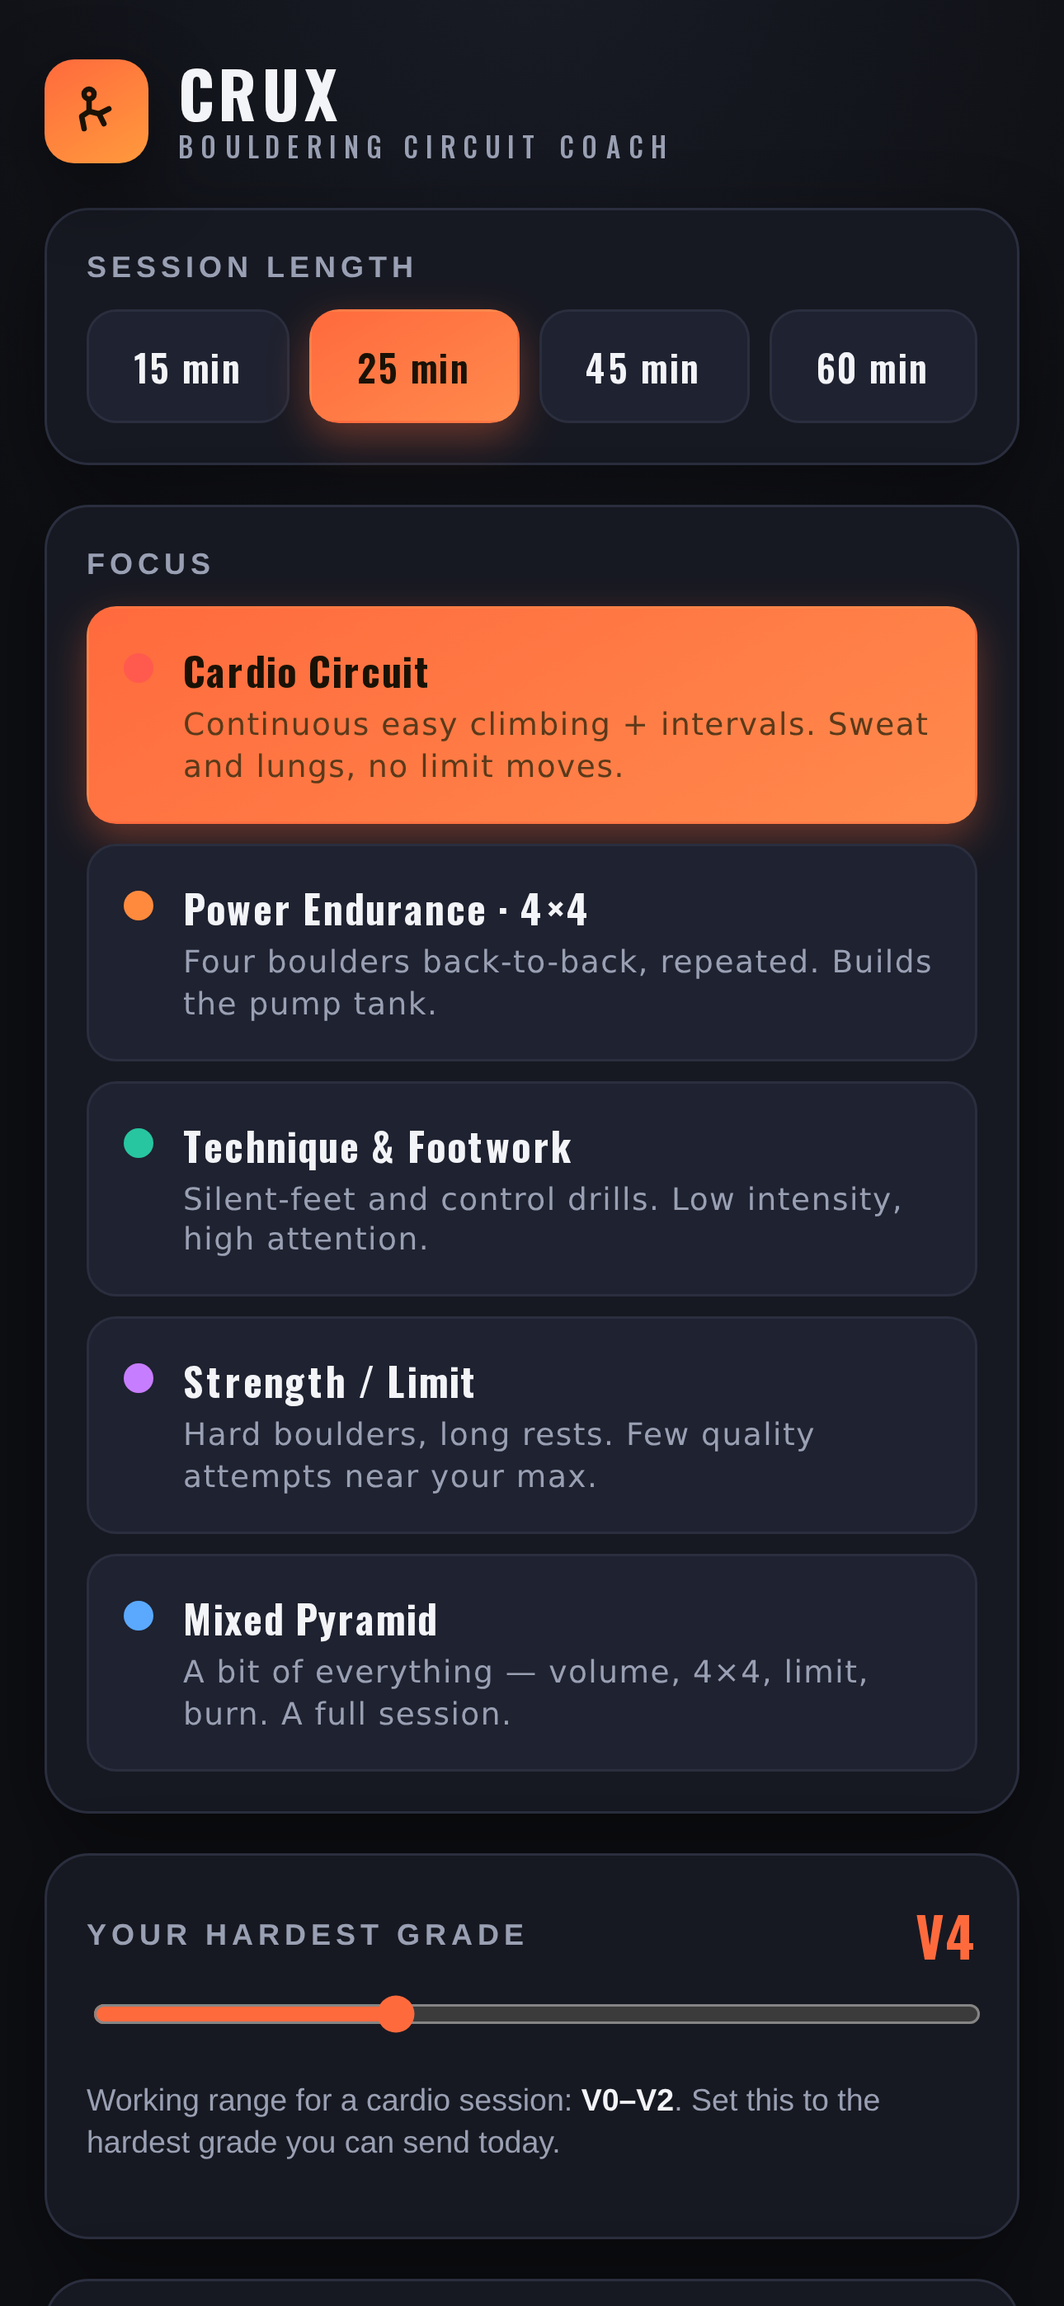
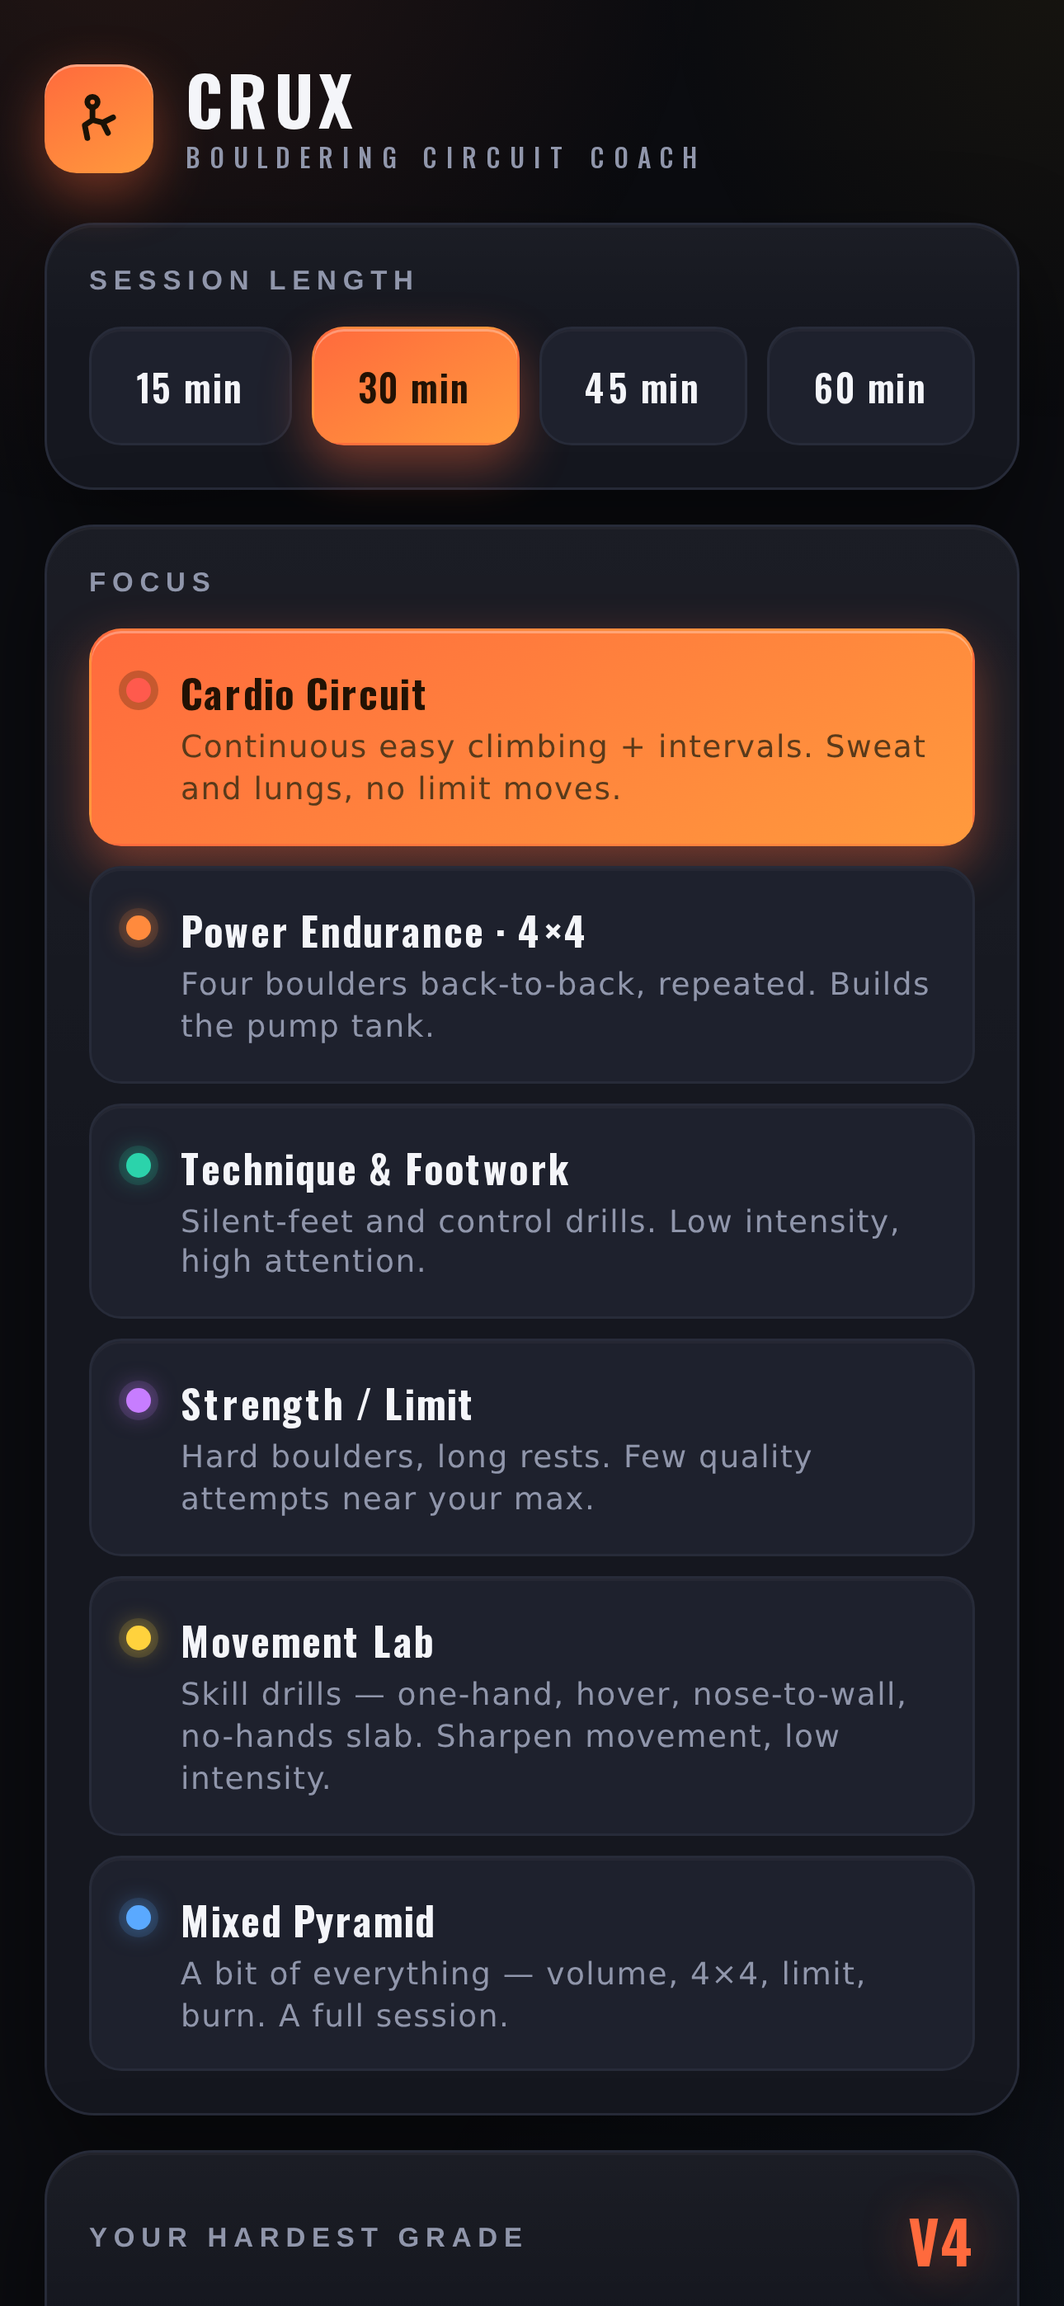
CRUX: visual polish pass
- Layered ambient glow background (ember top, cool low) behind setup and
  player instead of a flat fill; slightly deeper base (#0b0c10, synced to
  theme-color, manifest and Capacitor config).
- Cards, chips and controls get top-edge highlights, softer borders and
  deeper shadows; selected states glow; focus dots glow in their own color.
- Player: timer ring glows in the block color, gradient progress bar,
  block-change and player-entry animations, clock turns accent in the
  final 3 seconds, "next" indicator becomes a pill.
- Done screen: gradient headline with soft glow, refined stats.
- prefers-reduced-motion disables all animation.
- Store screenshots regenerated with the new look.

Claude-Session: https://claude.ai/code/session_01J4i3JimYPFfsG9b4tR7CT7

diff --git a/boulder/index.html b/boulder/index.html
@@ -3,7 +3,7 @@
 <head>
 <meta charset="UTF-8" />
 <meta name="viewport" content="width=device-width, initial-scale=1.0, viewport-fit=cover" />
-<meta name="theme-color" content="#0e0f13" />
+<meta name="theme-color" content="#0b0c10" />
 <link rel="manifest" href="manifest.webmanifest" />
 <meta name="mobile-web-app-capable" content="yes" />
 <meta name="apple-mobile-web-app-capable" content="yes" />
@@ -17,24 +17,29 @@
 <link href="https://fonts.googleapis.com/css2?family=Oswald:wght@400;500;600;700&display=swap" rel="stylesheet" />
 <style>
   :root{
-    --bg:#0e0f13;
-    --panel:#171922;
-    --panel-2:#1f2230;
-    --ink:#f3f4f8;
-    --muted:#9aa0b3;
-    --line:#2a2e3e;
+    --bg:#0b0c10;
+    --panel:#15171f;
+    --panel-2:#1e212d;
+    --ink:#f4f5f9;
+    --muted:#9096ab;
+    --line:#272b39;
     --accent:#ff6a3d;       /* hold orange */
+    --accent-2:#ff9a3d;
     --warmup:#f2b300;       /* amber */
     --work:#ff5a4d;         /* send red */
-    --rest:#27c6a0;         /* recovery teal */
+    --rest:#2bd3ab;         /* recovery teal */
     --cool:#5aa9ff;         /* cooldown blue */
-    --radius:18px;
-    --shadow:0 10px 30px rgba(0,0,0,.45);
+    --radius:20px;
+    --shadow:0 14px 36px rgba(0,0,0,.5);
+    --ambient:
+      radial-gradient(90% 46% at 12% -6%, rgba(255,106,61,.10), transparent 62%),
+      radial-gradient(70% 38% at 100% -2%, rgba(242,179,0,.05), transparent 55%),
+      radial-gradient(90% 55% at 85% 112%, rgba(90,169,255,.07), transparent 60%);
   }
   *{box-sizing:border-box}
   html,body{margin:0;height:100%}
   body{
-    background:radial-gradient(120% 90% at 50% -10%, #1a1d28 0%, var(--bg) 55%) fixed;
+    background:var(--bg);
     color:var(--ink);
     font-family:-apple-system,BlinkMacSystemFont,"Segoe UI",Roboto,Helvetica,Arial,sans-serif;
     -webkit-font-smoothing:antialiased;
@@ -44,108 +49,141 @@
     user-select:none;
     -webkit-user-select:none;
   }
+  body::before{ /* ambient gym-at-night glow behind everything */
+    content:"";position:fixed;inset:0;z-index:-1;pointer-events:none;
+    background:var(--ambient);
+  }
   h1,h2,h3,.brand,.big,.chip,.btn,.seg-label,.next-label{font-family:"Oswald",-apple-system,system-ui,sans-serif;}
   .wrap{max-width:560px;margin:0 auto;padding:max(18px,env(safe-area-inset-top)) 18px calc(28px + env(safe-area-inset-bottom));}
 
   /* ---------- header ---------- */
-  header.app{display:flex;align-items:center;gap:12px;margin:6px 0 18px}
-  .logo{width:42px;height:42px;border-radius:12px;background:linear-gradient(150deg,var(--accent),#ff9a3d);
-    display:grid;place-items:center;box-shadow:var(--shadow);flex:0 0 auto}
-  .logo svg{width:24px;height:24px}
-  .brand{font-size:26px;font-weight:700;letter-spacing:2px;line-height:1}
-  .brand small{display:block;font-family:inherit;font-weight:500;font-size:11px;letter-spacing:3px;color:var(--muted);margin-top:3px}
+  header.app{display:flex;align-items:center;gap:13px;margin:8px 0 20px}
+  .logo{width:44px;height:44px;border-radius:13px;background:linear-gradient(150deg,var(--accent),var(--accent-2));
+    display:grid;place-items:center;flex:0 0 auto;
+    box-shadow:0 8px 22px rgba(255,106,61,.4), inset 0 1px 0 rgba(255,255,255,.35)}
+  .logo svg{width:25px;height:25px}
+  .brand{font-size:27px;font-weight:700;letter-spacing:2.5px;line-height:1}
+  .brand small{display:block;font-family:inherit;font-weight:500;font-size:10.5px;letter-spacing:3.6px;color:var(--muted);margin-top:4px}
 
   /* ---------- setup ---------- */
-  .card{background:var(--panel);border:1px solid var(--line);border-radius:var(--radius);padding:16px;margin-bottom:16px;box-shadow:var(--shadow)}
-  .label{font-size:12px;letter-spacing:2px;text-transform:uppercase;color:var(--muted);margin:0 0 10px;font-weight:700}
+  .card{background:linear-gradient(180deg,rgba(255,255,255,.028),rgba(255,255,255,0) 42%) ,var(--panel);
+    border:1px solid var(--line);border-radius:var(--radius);padding:17px;margin-bottom:14px;
+    box-shadow:var(--shadow), inset 0 1px 0 rgba(255,255,255,.035)}
+  .label{font-size:11px;letter-spacing:2.6px;text-transform:uppercase;color:var(--muted);margin:0 0 12px;font-weight:700}
   .chips{display:flex;flex-wrap:wrap;gap:8px}
   .chip{appearance:none;border:1px solid var(--line);background:var(--panel-2);color:var(--ink);
-    padding:11px 14px;border-radius:12px;font-size:15px;font-weight:600;letter-spacing:.5px;cursor:pointer;
-    transition:transform .06s ease,border-color .15s,background .15s;flex:1 1 auto;min-width:64px;text-align:center}
+    padding:12px 14px;border-radius:13px;font-size:15px;font-weight:600;letter-spacing:.5px;cursor:pointer;
+    transition:transform .12s ease,border-color .18s,background .18s,box-shadow .18s;flex:1 1 auto;min-width:64px;text-align:center;
+    box-shadow:inset 0 1px 0 rgba(255,255,255,.03)}
   .chip:hover{border-color:#3a4055}
   .chip:active{transform:scale(.97)}
-  .chip[aria-pressed="true"]{background:linear-gradient(150deg,var(--accent),#ff8a4d);border-color:transparent;color:#1a1206;box-shadow:0 6px 16px rgba(255,106,61,.35)}
+  .chip[aria-pressed="true"]{background:linear-gradient(150deg,var(--accent),var(--accent-2));border-color:transparent;color:#221204;
+    box-shadow:0 8px 20px rgba(255,106,61,.42), inset 0 1px 0 rgba(255,255,255,.3)}
   .focus-grid{display:grid;grid-template-columns:1fr;gap:8px}
   .focus{display:flex;align-items:flex-start;gap:12px;text-align:left;padding:13px 14px}
-  .focus .dot{width:12px;height:12px;border-radius:50%;margin-top:5px;flex:0 0 auto;background:var(--work)}
+  .focus .dot{width:10px;height:10px;border-radius:50%;margin-top:6px;flex:0 0 auto;background:var(--work);
+    box-shadow:0 0 10px color-mix(in srgb, currentColor 60%, transparent),
+               0 0 0 3px color-mix(in srgb, currentColor 14%, transparent)}
+  .focus[aria-pressed="true"] .dot{box-shadow:0 0 0 3px rgba(26,18,6,.25)}
   .focus .ftxt{display:flex;flex-direction:column;gap:2px}
   .focus .ftitle{font-size:16px;font-weight:700;letter-spacing:.4px}
   .focus .fsub{font-size:12.5px;color:var(--muted);font-weight:500;line-height:1.35;font-family:-apple-system,system-ui,sans-serif}
   .focus[aria-pressed="true"] .fsub{color:#5a3a1a}
 
   .row{display:flex;align-items:center;justify-content:space-between;gap:12px}
-  .grade-val{font-family:"Oswald";font-size:22px;font-weight:700;color:var(--accent)}
-  input[type=range]{width:100%;accent-color:var(--accent);height:28px}
-  .hint{font-size:12.5px;color:var(--muted);margin-top:8px;line-height:1.4}
+  .grade-val{font-family:"Oswald";font-size:24px;font-weight:700;color:var(--accent);text-shadow:0 0 20px rgba(255,106,61,.45)}
+  input[type=range]{width:100%;accent-color:var(--accent);height:30px}
+  .hint{font-size:12.5px;color:var(--muted);margin-top:8px;line-height:1.45}
 
-  .start{width:100%;border:none;border-radius:16px;padding:18px;margin-top:4px;cursor:pointer;
-    font-family:"Oswald";font-size:20px;font-weight:700;letter-spacing:2px;color:#1a1206;
-    background:linear-gradient(150deg,var(--accent),#ff9a3d);box-shadow:0 10px 24px rgba(255,106,61,.4);
-    transition:transform .06s ease}
-  .start:active{transform:translateY(1px) scale(.995)}
+  .start{width:100%;border:none;border-radius:17px;padding:19px;margin-top:6px;cursor:pointer;
+    font-family:"Oswald";font-size:20px;font-weight:700;letter-spacing:2.5px;color:#221204;
+    background:linear-gradient(150deg,var(--accent),var(--accent-2));
+    box-shadow:0 14px 32px rgba(255,106,61,.45), 0 3px 8px rgba(0,0,0,.35), inset 0 1px 0 rgba(255,255,255,.3);
+    transition:transform .08s ease, box-shadow .2s ease}
+  .start:active{transform:translateY(1px) scale(.99);box-shadow:0 8px 20px rgba(255,106,61,.4), inset 0 1px 0 rgba(255,255,255,.3)}
   .total-line{text-align:center;color:var(--muted);font-size:13px;margin:14px 0 4px}
   .total-line b{color:var(--ink)}
+  #statsLine{margin-top:16px;letter-spacing:.2px}
 
   /* ---------- preview list ---------- */
   .plan{margin-top:2px}
-  .plan-item{display:flex;align-items:center;gap:12px;padding:9px 4px;border-bottom:1px solid var(--line)}
+  .plan-item{display:flex;align-items:center;gap:12px;padding:10px 4px;border-bottom:1px solid color-mix(in srgb, var(--line) 70%, transparent)}
   .plan-item:last-child{border-bottom:none}
-  .plan-bar{width:5px;align-self:stretch;border-radius:3px;flex:0 0 auto}
+  .plan-bar{width:4px;align-self:stretch;border-radius:4px;flex:0 0 auto}
   .plan-main{flex:1 1 auto;min-width:0}
-  .plan-name{font-size:14.5px;font-weight:600}
-  .plan-sub{font-size:12px;color:var(--muted);line-height:1.3;margin-top:1px}
+  .plan-name{font-size:14.5px;font-weight:600;letter-spacing:.2px}
+  .plan-sub{font-size:12px;color:var(--muted);line-height:1.35;margin-top:1px}
   .plan-time{font-family:"Oswald";font-variant-numeric:tabular-nums;font-size:15px;color:var(--muted);flex:0 0 auto}
 
   /* ---------- player ---------- */
-  #player{position:fixed;inset:0;background:var(--bg);display:none;flex-direction:column;z-index:50;
+  #player{position:fixed;inset:0;display:none;flex-direction:column;z-index:50;
+    background:var(--ambient), var(--bg);
     padding:max(16px,env(safe-area-inset-top)) 18px calc(20px + env(safe-area-inset-bottom))}
-  #player.show{display:flex}
+  #player.show{display:flex;animation:playerIn .32s cubic-bezier(.2,.8,.3,1)}
+  @keyframes playerIn{from{opacity:0;transform:translateY(16px)}to{opacity:1;transform:none}}
   body.playing{overflow:hidden}
   .p-top{display:flex;align-items:center;justify-content:space-between;gap:10px}
   .p-meta{font-size:12px;letter-spacing:2px;text-transform:uppercase;color:var(--muted);font-weight:700;
     flex:1 1 auto;min-width:0;overflow:hidden;text-overflow:ellipsis;white-space:nowrap}
   .p-top-btns{display:flex;gap:8px;align-items:center;flex:0 0 auto}
-  .exit{background:none;border:1px solid var(--line);color:var(--muted);border-radius:10px;padding:8px 12px;font-size:13px;cursor:pointer;font-weight:600;white-space:nowrap}
+  .exit{background:rgba(255,255,255,.035);border:1px solid var(--line);color:var(--muted);border-radius:11px;padding:8px 12px;font-size:13px;cursor:pointer;font-weight:600;white-space:nowrap}
   #voiceBtn[aria-pressed="false"]{opacity:.5;text-decoration:line-through}
-  #voiceBtn[aria-pressed="true"]{color:var(--rest);border-color:var(--rest)}
-  .p-progress{height:6px;background:var(--panel-2);border-radius:4px;overflow:hidden;margin:14px 0 0}
-  .p-progress > div{height:100%;width:0;background:var(--accent);transition:width .25s linear}
+  #voiceBtn[aria-pressed="true"]{color:var(--rest);border-color:color-mix(in srgb, var(--rest) 55%, transparent)}
+  .p-progress{height:5px;background:var(--panel-2);border-radius:99px;overflow:hidden;margin:14px 0 0}
+  .p-progress > div{height:100%;width:0;border-radius:99px;
+    background:linear-gradient(90deg,var(--accent),var(--accent-2));
+    box-shadow:0 0 12px rgba(255,106,61,.55);transition:width .25s linear}
 
   .stage{flex:1 1 auto;display:flex;flex-direction:column;align-items:center;justify-content:center;text-align:center;gap:6px}
-  .seg-kind{font-size:13px;letter-spacing:4px;text-transform:uppercase;font-weight:700}
-  .seg-label{font-size:clamp(26px,8vw,42px);font-weight:700;line-height:1.05;margin:2px 0;letter-spacing:.5px}
-  .ring-wrap{position:relative;width:min(74vw,300px);aspect-ratio:1;margin:6px 0}
+  .stage.swap{animation:segIn .38s cubic-bezier(.2,.8,.3,1) both}
+  @keyframes segIn{from{opacity:.15;transform:translateY(10px) scale(.985)}to{opacity:1;transform:none}}
+  .seg-kind{font-size:12px;letter-spacing:5px;text-transform:uppercase;font-weight:700;text-shadow:0 0 18px currentColor}
+  .seg-label{font-size:clamp(27px,8.4vw,44px);font-weight:700;line-height:1.05;margin:2px 0;letter-spacing:.5px}
+  .ring-wrap{position:relative;width:min(74vw,300px);aspect-ratio:1;margin:8px 0}
   .ring-wrap svg{width:100%;height:100%;transform:rotate(-90deg)}
-  .ring-bg{fill:none;stroke:var(--panel-2);stroke-width:14}
-  .ring-fg{fill:none;stroke-width:14;stroke-linecap:round;transition:stroke .3s}
+  .ring-bg{fill:none;stroke:var(--panel-2);stroke-width:13}
+  .ring-fg{fill:none;stroke-width:13;stroke-linecap:round;transition:stroke .3s;
+    filter:drop-shadow(0 0 9px color-mix(in srgb, currentColor 65%, transparent))}
   .big{position:absolute;inset:0;display:flex;flex-direction:column;align-items:center;justify-content:center}
-  .clock{font-size:clamp(54px,17vw,80px);font-weight:700;font-variant-numeric:tabular-nums;line-height:1}
-  .rpe{font-size:13px;color:var(--muted);letter-spacing:1px;margin-top:2px}
-  .seg-sub{max-width:34ch;color:#cfd3e2;font-size:15px;line-height:1.45;font-family:-apple-system,system-ui,sans-serif;min-height:3em}
-  .next{display:flex;align-items:center;gap:8px;justify-content:center;color:var(--muted);font-size:13px;margin-top:2px}
-  .next-label{letter-spacing:2px;text-transform:uppercase;font-weight:700;font-size:11px}
+  .clock{font-size:clamp(56px,17vw,84px);font-weight:700;font-variant-numeric:tabular-nums;line-height:1;letter-spacing:1px;
+    transition:color .25s}
+  .clock.ending{color:var(--accent);text-shadow:0 0 26px rgba(255,106,61,.55)}
+  .rpe{font-size:12px;color:var(--muted);letter-spacing:2px;margin-top:4px;text-transform:uppercase}
+  .seg-sub{max-width:34ch;color:#cbcfdf;font-size:15px;line-height:1.5;font-family:-apple-system,system-ui,sans-serif;min-height:3em}
+  .next{display:flex;align-items:center;gap:8px;justify-content:center;color:var(--muted);font-size:13px;margin-top:6px;
+    border:1px solid var(--line);background:rgba(255,255,255,.03);padding:8px 15px;border-radius:99px;max-width:100%}
+  .next-label{letter-spacing:2px;text-transform:uppercase;font-weight:700;font-size:10.5px}
+  #nextTxt{overflow:hidden;text-overflow:ellipsis;white-space:nowrap}
 
   .controls{display:flex;gap:10px;margin-top:10px}
-  .ctrl{flex:1 1 0;border:1px solid var(--line);background:var(--panel);color:var(--ink);border-radius:14px;
+  .ctrl{flex:1 1 0;border:1px solid var(--line);color:var(--ink);border-radius:16px;
+    background:linear-gradient(180deg,rgba(255,255,255,.03),rgba(255,255,255,0) 50%), var(--panel);
     padding:15px;font-family:"Oswald";font-size:16px;font-weight:600;letter-spacing:1px;cursor:pointer;
-    display:flex;align-items:center;justify-content:center;gap:8px;transition:transform .06s ease}
+    display:flex;align-items:center;justify-content:center;gap:8px;transition:transform .08s ease;
+    box-shadow:0 6px 18px rgba(0,0,0,.35), inset 0 1px 0 rgba(255,255,255,.04)}
   .ctrl:active{transform:scale(.97)}
-  .ctrl.primary{background:linear-gradient(150deg,var(--accent),#ff9a3d);color:#1a1206;border-color:transparent;flex:1.5 1 0}
+  .ctrl.primary{background:linear-gradient(150deg,var(--accent),var(--accent-2));color:#221204;border-color:transparent;flex:1.5 1 0;
+    box-shadow:0 10px 26px rgba(255,106,61,.42), inset 0 1px 0 rgba(255,255,255,.3)}
   .ctrl svg{width:18px;height:18px}
 
   /* ---------- done ---------- */
-  .done{flex:1 1 auto;display:flex;flex-direction:column;align-items:center;justify-content:center;text-align:center;gap:14px}
-  .done h2{font-size:40px;margin:0;letter-spacing:1px}
-  .done .sub{color:var(--muted);font-size:15px;max-width:30ch;line-height:1.5}
-  .stat-row{display:flex;gap:22px;margin:6px 0}
-  .stat{display:flex;flex-direction:column;gap:2px}
-  .stat b{font-family:"Oswald";font-size:30px;color:var(--accent)}
-  .stat span{font-size:11px;letter-spacing:2px;text-transform:uppercase;color:var(--muted)}
+  .done{flex:1 1 auto;display:flex;flex-direction:column;align-items:center;justify-content:center;text-align:center;gap:14px;
+    animation:segIn .45s cubic-bezier(.2,.8,.3,1) both}
+  .done h2{font-size:46px;margin:0;letter-spacing:1px;
+    background:linear-gradient(150deg,var(--accent) 20%,var(--warmup));
+    -webkit-background-clip:text;background-clip:text;color:transparent;
+    filter:drop-shadow(0 3px 14px rgba(255,106,61,.28))}
+  .done .sub{color:var(--muted);font-size:15px;max-width:30ch;line-height:1.55}
+  .stat-row{display:flex;gap:26px;margin:8px 0}
+  .stat{display:flex;flex-direction:column;gap:3px}
+  .stat b{font-family:"Oswald";font-size:32px;color:var(--accent);text-shadow:0 0 14px rgba(255,106,61,.3)}
+  .stat span{font-size:10.5px;letter-spacing:2.2px;text-transform:uppercase;color:var(--muted)}
 
-  footer{text-align:center;color:var(--muted);font-size:12px;margin-top:8px;line-height:1.5}
+  footer{text-align:center;color:var(--muted);font-size:12px;margin-top:10px;line-height:1.55;opacity:.85}
   footer a{color:var(--muted)}
   .hidden{display:none !important}
   @media (max-width:360px){ .chip{font-size:14px;padding:10px} }
+  @media (prefers-reduced-motion:reduce){ *{animation:none !important;transition:none !important} }
 </style>
 </head>
 <body>
@@ -498,7 +536,7 @@ FOCI.forEach(f=>{
   const b = document.createElement("button");
   b.className = "chip focus";
   b.dataset.focus = f.id;
-  b.innerHTML = '<span class="dot" style="background:'+f.color+'"></span>'+
+  b.innerHTML = '<span class="dot" style="background:'+f.color+';color:'+f.color+'"></span>'+
     '<span class="ftxt"><span class="ftitle">'+f.title+'</span><span class="fsub">'+f.sub+'</span></span>';
   b.addEventListener("click", ()=>{ state.focus = f.id; renderFocus(); regenerate(); save(); });
   focusGrid.appendChild(b);
@@ -672,6 +710,7 @@ function enterSegment(i){
   $("segLabel").textContent = s.label;
   $("segSub").textContent = s.sub || "";
   $("ring").style.stroke = k.css;
+  $("ring").style.color = k.css;   // drives the ring's currentColor glow
   $("rpe").textContent = s.rpe ? ("EFFORT " + s.rpe + "/10") : "";
   $("pIdx").textContent = i + 1;
   $("pName").textContent = FOCI.find(x=>x.id===state.focus).title;
@@ -679,6 +718,9 @@ function enterSegment(i){
   $("nextTxt").textContent = nxt ? (nxt.label + " · " + fmt(nxt.seconds)) : "Cool-down done — finish strong";
   timer.preAnnounced = false;
   render();
+  // re-trigger the block-change animation
+  const st = $("stage");
+  st.classList.remove("swap"); void st.offsetWidth; st.classList.add("swap");
   cue(s.kind === "rest" ? "rest" : "go");
   announce(s);
   // pre-warm the next block's audio so the transition has no lag
@@ -724,6 +766,7 @@ function render(){
   const s = timer.segs[timer.idx];
   if (!s) return;
   $("clock").textContent = fmt(timer.remaining);
+  $("clock").classList.toggle("ending", timer.running && !timer.paused && timer.remaining <= 3.6 && timer.remaining > 0);
   const frac = clamp(timer.remaining / s.seconds, 0, 1);
   $("ring").style.strokeDashoffset = RING_C * (1 - frac);
   // overall progress bar
